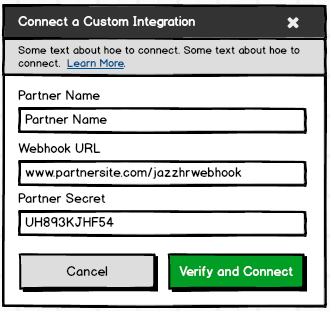
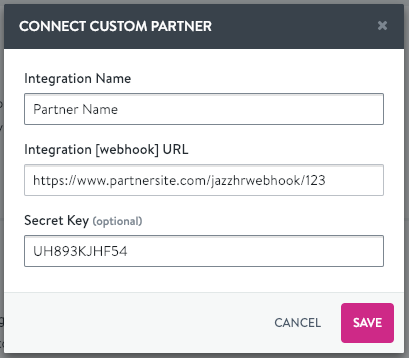
JZ-23220 updating userflow images and text

diff --git a/source/includes/webhook/_user_flows.md b/source/includes/webhook/_user_flows.md
@@ -2,17 +2,29 @@
 
 ## Adding a Custom Integration
 
-**From Settings > Integrations > +Add Integrations**
+**From Settings > Integrations**
+
+Select the `Add Custom Integration` button to open the connection modal.
 
 ![Add Integration](images/webhook/add_integration.png)
 
 ### Required for connecting a Custom Integration
 
-* Partner Name - Unique name for this integration
-* Webhook URL - URL to which JazzHR will POST
-* Partner Secret - Used in hashing the JazzHR Signature header
+Information required to setup a custom integration:
+
+* **Integration Name** - Unique name for this integration
+* **Integration [Webhook] URL** - URL to which JazzHR will POST
+* **Secret Key** - Used in hashing the JazzHR Signature header, optional value depending on the partner.
 
 ![Connect a Custom Integration](images/webhook/connect_integration.png)
+
+When the `Save` button is clicked, the [Verification Event](#verification-event) will be sent to the provided endpoint before it is finalized.
+
+### Connected Custom Integration
+
+Once the saving has completed, the Custom Integration will be displayed in the setup state. Options are available to edit information or remove the integration.
+
+![Connected Custom Integration](images/webhook/connect_integration_saved.png)
 
 ## Manual Candidate Export
 
